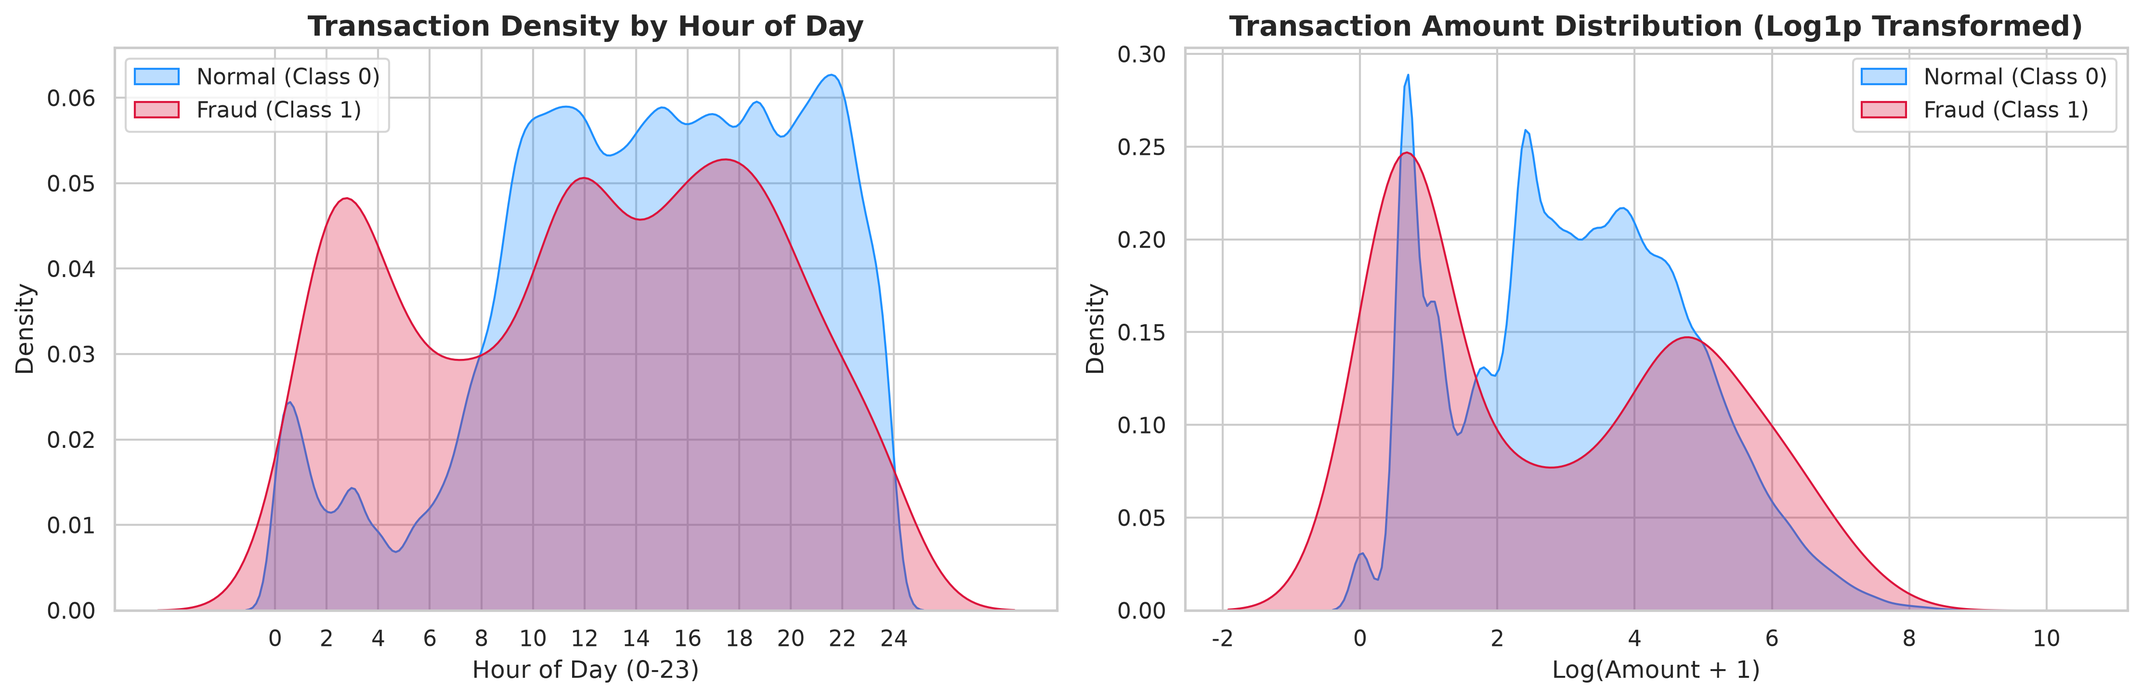
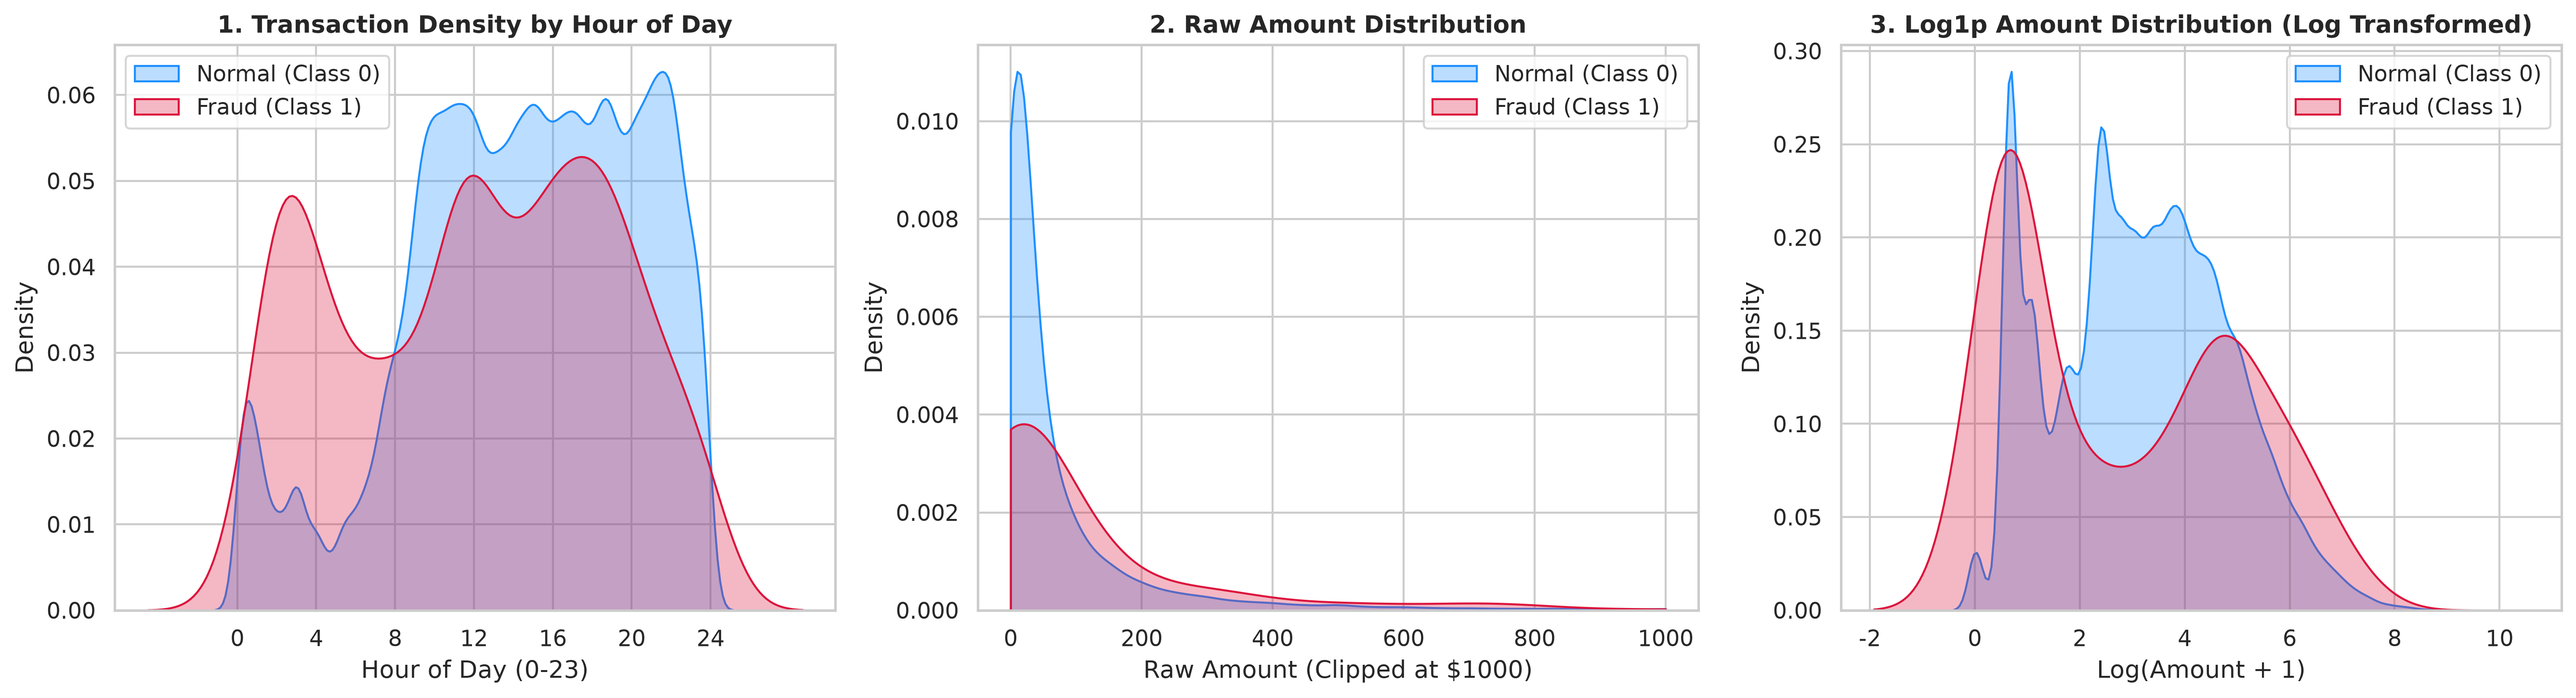
add figure (raw amount distribution)

diff --git a/feature_analysis.py b/feature_analysis.py
@@ -127,14 +127,14 @@ def analyze_feature_separation(df, top_n=6):
 
 
 # ==============================================================================
-# 模組二：Time 與 Amount 的特徵工程與轉換 (Time & Amount Feature Engineering)
+# 模組二（更新版）：Time 與 Amount 轉換前後完全對照圖
 # ==============================================================================
 def engineer_time_and_amount(df):
     """
     1. 將 Time (秒) 轉為 Hour_of_Day (0-23 小時) 週期特徵
-    2. 對 Amount 做 Log1p 與 RobustScaler 轉換，並繪製雙峰/時間分佈圖
+    2. 繪製 Amount 轉換前 (Raw Amount) 與 轉換後 (Log1p Amount) 之對照圖
     """
-    print("\n⏳ [Module 2] Time 與 Amount 特徵工程與分佈檢驗...")
+    print("\n⏳ [Module 2] Time 與 Amount 特徵工程與轉換前後對照檢驗...")
     df_engineered = df.copy()
     
     # 時間特徵：計算交易時間是當天的第幾小時 (0 - 23)
@@ -143,39 +143,46 @@ def engineer_time_and_amount(df):
     # 金額特徵：Log1p 平滑極端偏態
     df_engineered['Amount_Log1p'] = np.log1p(df_engineered['Amount'])
     
-    # 金額特徵：RobustScaler 標準化
-    scaler = RobustScaler()
-    df_engineered['Amount_RobustScaled'] = scaler.fit_transform(df_engineered[['Amount']])
-    
-    # 繪製圖表：交易時間分佈 vs 交易金額分佈
-    fig, axes = plt.subplots(1, 2, figsize=(15, 5))
+    # 繪製 3 欄式畫布
+    fig, axes = plt.subplots(1, 3, figsize=(18, 5))
     
     # 1. 交易小時分佈 (Density)
     sns.kdeplot(data=df_engineered[df_engineered['Class']==0]['Hour_of_Day'], ax=axes[0], 
                 color='dodgerblue', label='Normal (Class 0)', fill=True, alpha=0.3, bw_adjust=0.8)
     sns.kdeplot(data=df_engineered[df_engineered['Class']==1]['Hour_of_Day'], ax=axes[0], 
                 color='crimson', label='Fraud (Class 1)', fill=True, alpha=0.3, bw_adjust=0.8)
-    axes[0].set_title("Transaction Density by Hour of Day", fontsize=14, fontweight='bold')
+    axes[0].set_title("1. Transaction Density by Hour of Day", fontsize=12, fontweight='bold')
     axes[0].set_xlabel("Hour of Day (0-23)")
     axes[0].set_ylabel("Density")
-    axes[0].set_xticks(range(0, 25, 2))
+    axes[0].set_xticks(range(0, 25, 4))
     axes[0].legend()
     
-    # 2. 交易金額 Log1p 分佈
-    sns.kdeplot(data=df_engineered[df_engineered['Class']==0]['Amount_Log1p'], ax=axes[1], 
-                color='dodgerblue', label='Normal (Class 0)', fill=True, alpha=0.3)
-    sns.kdeplot(data=df_engineered[df_engineered['Class']==1]['Amount_Log1p'], ax=axes[1], 
-                color='crimson', label='Fraud (Class 1)', fill=True, alpha=0.3)
-    axes[1].set_title("Transaction Amount Distribution (Log1p Transformed)", fontsize=14, fontweight='bold')
-    axes[1].set_xlabel("Log(Amount + 1)")
+    # 2. 轉換前：原始 Amount 分佈 (展示極端右偏與壓扁效應)
+    # 為了避免 25,000 的極大值把 X 軸拉到無限長，限制顯示至 $1,000 (涵蓋 99% 以上交易)
+    sns.kdeplot(data=df_engineered[df_engineered['Class']==0]['Amount'], ax=axes[1], 
+                color='dodgerblue', label='Normal (Class 0)', fill=True, alpha=0.3, clip=(0, 1000))
+    sns.kdeplot(data=df_engineered[df_engineered['Class']==1]['Amount'], ax=axes[1], 
+                color='crimson', label='Fraud (Class 1)', fill=True, alpha=0.3, clip=(0, 1000))
+    axes[1].set_title("2. Raw Amount Distribution", fontsize=12, fontweight='bold')
+    axes[1].set_xlabel("Raw Amount (Clipped at $1000)")
     axes[1].set_ylabel("Density")
     axes[1].legend()
+    
+    # 3. 轉換後：Log1p Amount 分佈 (展現雙峰結構)
+    sns.kdeplot(data=df_engineered[df_engineered['Class']==0]['Amount_Log1p'], ax=axes[2], 
+                color='dodgerblue', label='Normal (Class 0)', fill=True, alpha=0.3)
+    sns.kdeplot(data=df_engineered[df_engineered['Class']==1]['Amount_Log1p'], ax=axes[2], 
+                color='crimson', label='Fraud (Class 1)', fill=True, alpha=0.3)
+    axes[2].set_title("3. Log1p Amount Distribution (Log Transformed)", fontsize=12, fontweight='bold')
+    axes[2].set_xlabel("Log(Amount + 1)")
+    axes[2].set_ylabel("Density")
+    axes[2].legend()
     
     plt.tight_layout()
     save_path = os.path.join(FIG_DIR, "fig2_time_amount_engineering.png")
     plt.savefig(save_path, dpi=300, bbox_inches='tight')
     plt.close()
-    print(f"📸 圖表已存至: {save_path}")
+    print(f"📸 轉換前後對照圖已更新並存至: {save_path}")
     
     return df_engineered
 
